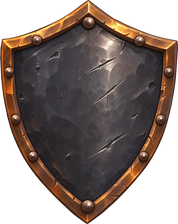
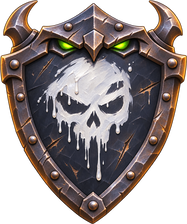
New shields

diff --git a/docs/artwork_prompts.md b/docs/artwork_prompts.md
@@ -121,9 +121,10 @@ placeholder, so that players recognise it.
 | `icon_give_up.png` | give up button | A tattered white flag on a short wooden pole. Pure white and light grey only. |
 | `action_orb_blue.png`, `…_yellow`, `…_red`, `…_green` | a hero's actions left (blue turns, yellow extra, red limited; green is unused) | A round faceted gemstone orb in a dark metal rim with a white sparkle. Final 64 × 64. |
 
-**`boss_shield_normal.png`, `boss_shield_dark.png`, `boss_shield_poison.png`** — the boss's shields on the fight
-screen, which the code makes glow and break; their value is shown below them. Normal is plain iron, dark is for shields
-that do something besides absorbing, poison has a green drop on it (`Boss.SHIELD_*`). Generate 1024 × 1110, final
+**`boss_shield_normal.png`, `boss_shield_skull.png`, `boss_shield_poison.png`** — the boss's shields on the fight
+screen, which the code makes glow and break; their value is shown below them. Normal is plain iron, skull (imported as
+`boss_shield_dark.png`) is for shields that do something besides absorbing, poison has a green drop on it
+(`Boss.SHIELD_*`). Generate 1024 × 1110, final
 fitted into 192 × 224.
 
 > A heavy dark iron heater shield seen from the front, blackened riveted metal, a thin bronze rim, battle scratches,
